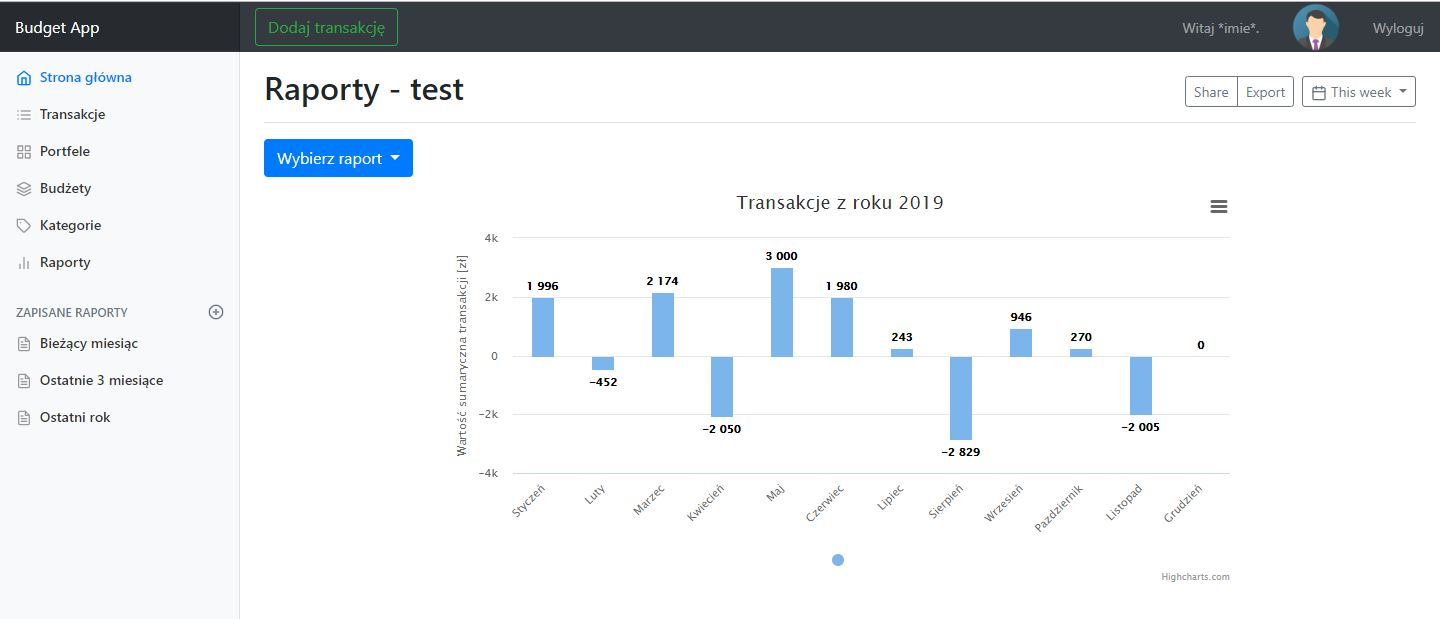
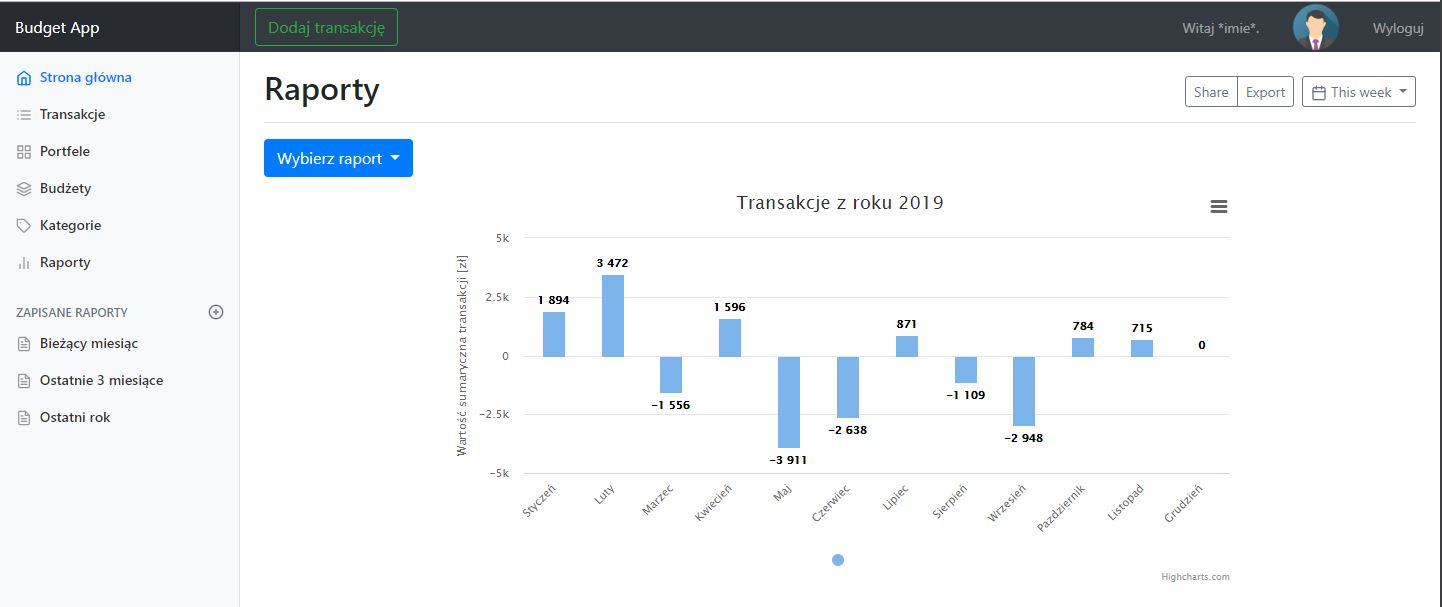
readme

diff --git a/src/main/resources/templates/reports-test.html b/src/main/resources/templates/reports-test.html
@@ -10,7 +10,7 @@
 
 <main role="main" class="col-md-9 ml-sm-auto col-lg-10 pt-3 px-4">
     <div class="d-flex justify-content-between flex-wrap flex-md-nowrap align-items-center pb-2 mb-3 border-bottom">
-        <h1 class="h2">Raporty - test</h1>
+        <h1 class="h2">Raporty</h1>
         <div class="btn-toolbar mb-2 mb-md-0">
             <div class="btn-group mr-2">
                 <button class="btn btn-sm btn-outline-secondary">Share</button>

diff --git a/README.md b/README.md
@@ -4,9 +4,9 @@ Aplikacja webowa do zarządzania i analizowania wydatków, dochodów i budżetu 
 Live: https://budget-app-jklata.herokuapp.com/  
 
 ![img1](https://github.com/jklata/budget-app/blob/master/src/main/resources/static/images/img1.JPG)
-####
+<br/>
 ![img2](https://github.com/jklata/budget-app/blob/master/src/main/resources/static/images/img2.JPG)
-####
+<br/>
 ![img3](https://github.com/jklata/budget-app/blob/master/src/main/resources/static/images/img3.JPG)
 
 ## Użyte technologie
